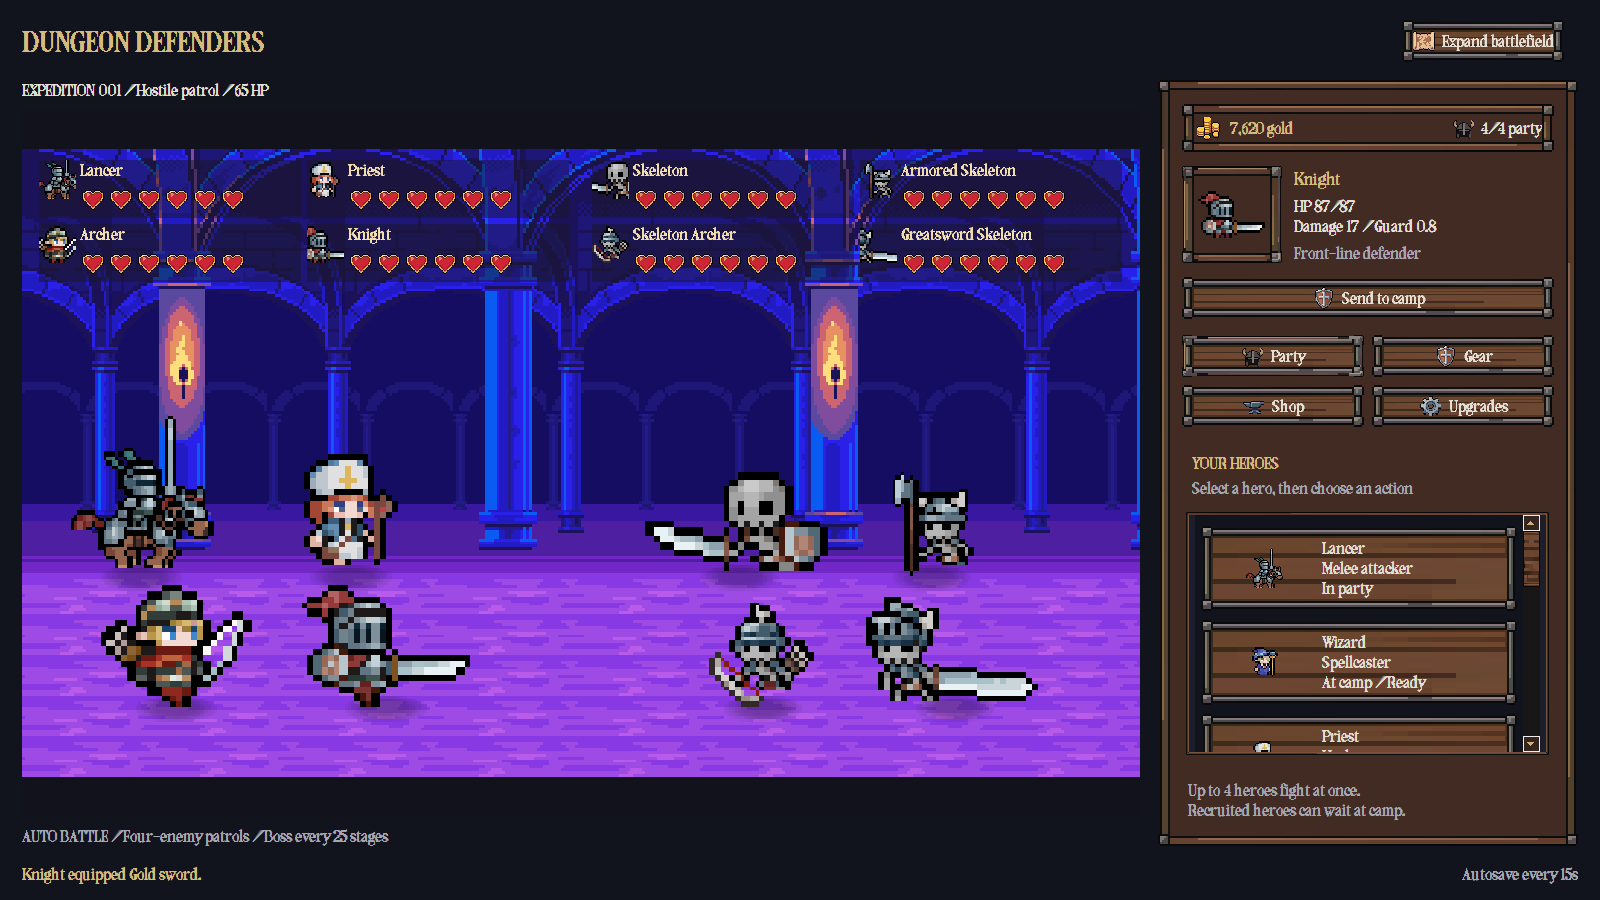
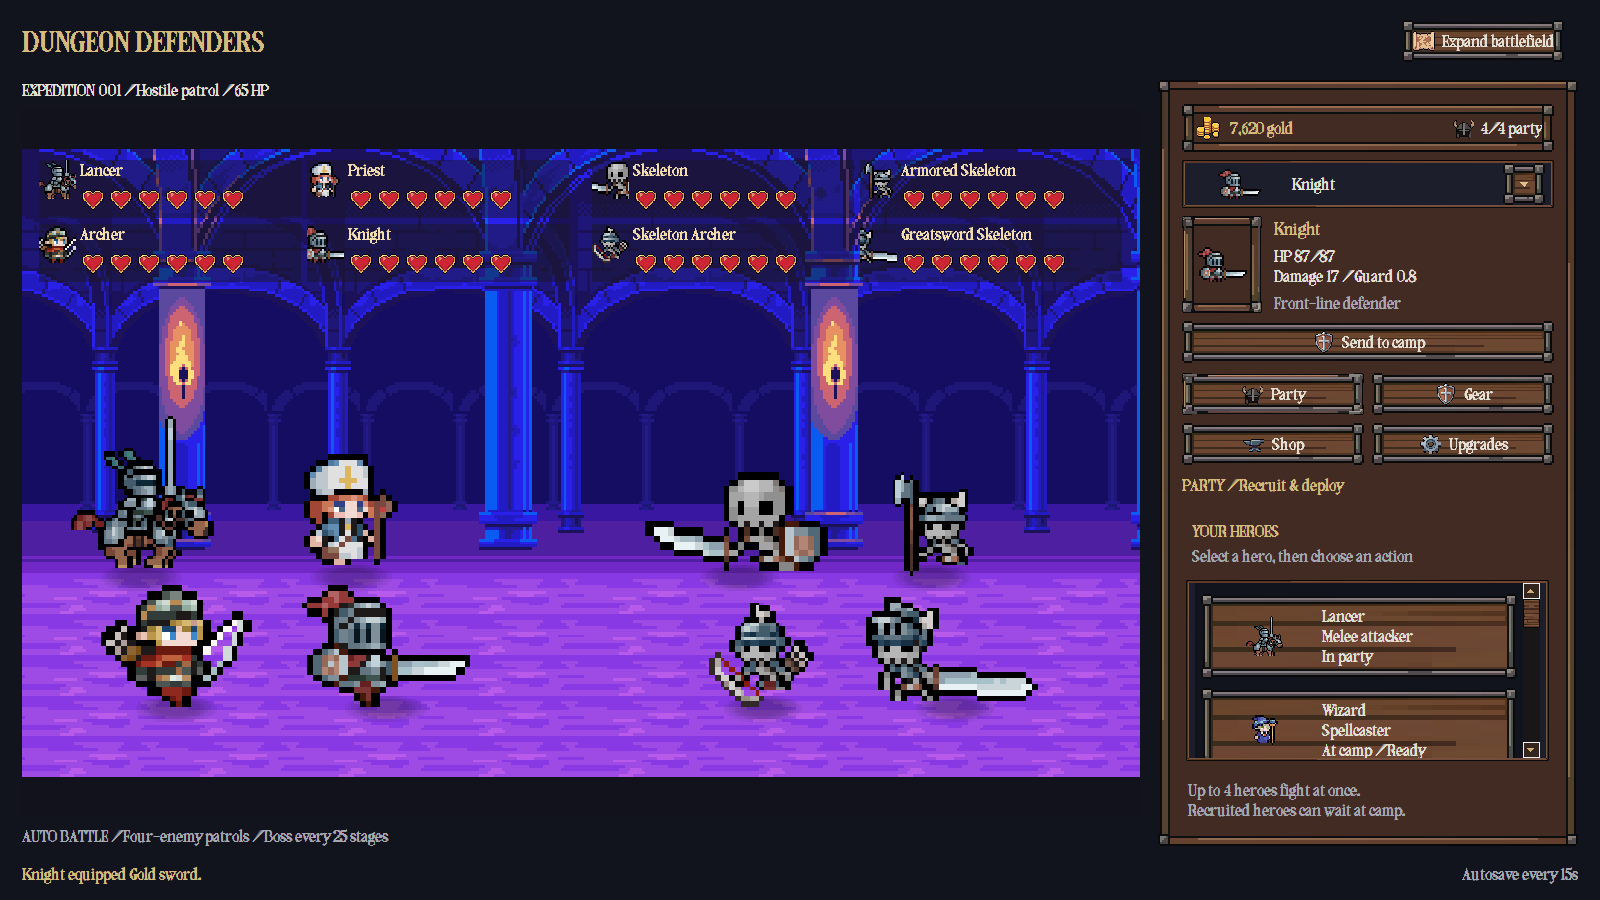
1.5.0 QoL
- updated UI for party, gears, shop, and upgrades
- updated boss

Changed region(s): [[0.7188, 0.1556, 0.9688, 0.8711]]

diff --git a/src/idle/IdleGame.java b/src/idle/IdleGame.java
@@ -39,6 +39,9 @@ public final class IdleGame {
     private final JList<Item> shop = new JList<>(Catalog.ITEMS.toArray(new Item[0]));
     private final BattlePanel battlefield;
     private Hero selected;
+    private final JComboBox<Role> heroPicker = new JComboBox<>(Role.values());
+    private final JLabel pageHeading = new JLabel();
+    private final JCheckBox compatibleOnly = new JCheckBox("Only gear this hero can use", true);
     private JFrame window;
     private String bagSignature = "";
     private int seconds;
@@ -193,9 +196,9 @@ public final class IdleGame {
 
         // keep the wallet, selected portrait, and management actions together
         // this avoids sending the player to a separate screen just to compare a price with their gold
-        JPanel sidebar = UiSkin.panel(new BorderLayout(0, 16)); sidebar.setPreferredSize(new Dimension(420, 660));
+        JPanel sidebar = UiSkin.panel(new BorderLayout(0, 10)); sidebar.setPreferredSize(new Dimension(420, 660));
         sidebar.setBorder(new EmptyBorder(24, 24, 24, 24));
-        JPanel character = panel(new BorderLayout(0, 14));
+        JPanel character = panel(new BorderLayout(0, 8));
         JPanel details = panel(null); details.setLayout(new BoxLayout(details, BoxLayout.Y_AXIS));
         heroTitle.setForeground(GOLD); heroTitle.setFont(font(19)); details.add(heroTitle);
         heroStats.setForeground(TEXT); details.add(heroStats); weaponRule.setForeground(MUTED); weaponRule.setFont(font(10)); details.add(weaponRule);
@@ -211,13 +214,27 @@ public final class IdleGame {
                 UiSkin.draw(g, "selection", 0, 0, getWidth(), getHeight(), false); g.dispose();
             }
         };
-        portrait.setPreferredSize(new Dimension(100, 90)); portrait.setOpaque(false);
+        portrait.setPreferredSize(new Dimension(80, 64)); portrait.setOpaque(false);
         JPanel identity = panel(new BorderLayout(12, 0)); identity.add(portrait, BorderLayout.WEST); identity.add(details, BorderLayout.CENTER);
         character.add(identity, BorderLayout.CENTER);
         JPanel wallet = UiSkin.panel(new BorderLayout(8, 0)); wallet.setBorder(new EmptyBorder(10, 12, 10, 12));
         resources.setIconTextGap(8); wallet.add(resources, BorderLayout.WEST);
         partyCount.setForeground(TEXT); partyCount.setFont(font(18)); partyCount.setIcon(UiSkin.icon(2, 20, 24)); wallet.add(partyCount, BorderLayout.EAST);
-        character.add(wallet, BorderLayout.NORTH);
+        JPanel selection = panel(new BorderLayout(0, 8)); selection.add(wallet, BorderLayout.NORTH);
+        heroPicker.setFont(font(18)); heroPicker.setSelectedItem(selected.role);
+        heroPicker.setRenderer(new DefaultListCellRenderer() {
+            // keep hero switching available above every tab with recognizable portraits and recruitment status
+            @Override public Component getListCellRendererComponent(JList<?> list, Object value, int index, boolean selectedRow, boolean focus) {
+                JLabel cell = (JLabel) super.getListCellRendererComponent(list, value, index, selectedRow, focus);
+                Role role = (Role) value;
+                if (role != null) { cell.setText(role.label + (state.heroes.get(role.ordinal()).level == 0 ? " / Not recruited" : "")); cell.setIcon(new ImageIcon(PixelArt.portrait(role))); }
+                return cell;
+            }
+        });
+        heroPicker.setToolTipText("Choose the hero to equip or upgrade without leaving this tab");
+        heroPicker.getAccessibleContext().setAccessibleName("Selected hero");
+        heroPicker.addActionListener(e -> { Role role = (Role) heroPicker.getSelectedItem(); if (role != null && selected.role != role) roster[role.ordinal()].doClick(); });
+        selection.add(heroPicker); character.add(selection, BorderLayout.NORTH);
         heroActions.add(deploy); character.add(heroActions, BorderLayout.SOUTH);
 
         tabs.setUI(new UiSkin.SkinTabs() {
@@ -238,7 +255,7 @@ public final class IdleGame {
         tabs.addTab("Party", rosterBlock);
         JPanel gear = panel(new GridLayout(4, 1, 0, 12)); gear.setBorder(new EmptyBorder(14, 10, 12, 10));
         for (Slot slot : Slot.values()) {
-            int i = slot.ordinal(); JPanel row = panel(new GridLayout(0, 1, 0, 5));
+            int i = slot.ordinal(); JPanel row = UiSkin.panel(new GridLayout(0, 1, 0, 6)); row.setBorder(new EmptyBorder(12, 12, 12, 12));
             equipped[i] = label("", GOLD, 11); row.add(equipped[i]); choices[i] = new JComboBox<>(); choices[i].setFont(font(11));
             choices[i].setRenderer(new DefaultListCellRenderer() {
                 // build a readable item row for the current inventory or shop context
@@ -255,11 +272,13 @@ public final class IdleGame {
             remove[i].addActionListener(e -> change(() -> state.unequip(selected, slot)));
             buttons.add(equip[i]); buttons.add(remove[i]); row.add(buttons); gear.add(row);
         }
-        gear.setPreferredSize(new Dimension(330, 440));
+        gear.setPreferredSize(new Dimension(330, 600));
         JScrollPane gearScroll = new JScrollPane(gear); gearScroll.getViewport().setBackground(PANEL); gearScroll.getVerticalScrollBar().setUnitIncrement(24);
         tabs.addTab("Gear", gearScroll);
         JPanel forge = panel(new BorderLayout(0, 10)); forge.setBorder(new EmptyBorder(12, 10, 12, 10));
-        forge.add(label("Buy gear here, then equip it in Gear", MUTED, 11), BorderLayout.NORTH);
+        compatibleOnly.setOpaque(false); compatibleOnly.setForeground(TEXT); compatibleOnly.setFont(font(18));
+        compatibleOnly.addActionListener(e -> filterShop());
+        forge.add(compatibleOnly, BorderLayout.NORTH);
         shop.setSelectionMode(ListSelectionModel.SINGLE_SELECTION);
         shop.setCellRenderer(new DefaultListCellRenderer() {
             // build a readable item row for the current inventory or shop context
@@ -277,14 +296,14 @@ public final class IdleGame {
         JPanel training = panel(new GridLayout(4, 1, 0, 10)); training.setBorder(new EmptyBorder(14, 8, 8, 8));
         for (GameState.Upgrade upgrade : GameState.Upgrade.values()) {
             int i = upgrade.ordinal();
-            JPanel row = panel(new BorderLayout(0, 6));
+            JPanel row = UiSkin.panel(new BorderLayout(0, 8)); row.setBorder(new EmptyBorder(12, 12, 12, 12));
             upgradeLabels[i] = label("", GOLD, 18); row.add(upgradeLabels[i], BorderLayout.CENTER);
             upgradeButtons[i] = button("Upgrade");
             upgradeButtons[i].setIcon(UiSkin.icon(3, upgrade == GameState.Upgrade.HEALTH ? 1 : upgrade == GameState.Upgrade.HEALING ? 15 : upgrade == GameState.Upgrade.GUARD ? 12 : 9, 22));
             upgradeButtons[i].addActionListener(e -> change(() -> state.upgrade(selected, upgrade)));
             row.add(upgradeButtons[i], BorderLayout.SOUTH); training.add(row);
         }
-        training.setPreferredSize(new Dimension(330, 450));
+        training.setPreferredSize(new Dimension(330, 560));
         JScrollPane trainingScroll = new JScrollPane(training); trainingScroll.getViewport().setBackground(PANEL); trainingScroll.getVerticalScrollBar().setUnitIncrement(24);
         tabs.addTab("Upgrades", trainingScroll);
 
@@ -293,10 +312,12 @@ public final class IdleGame {
         JPanel navigation = panel(new GridLayout(2, 2, 8, 8));
 
         int[] navigationIcons = {20, 12, 38, 35};
+        String[] navigationHelp = {"PARTY / Recruit heroes and manage active slots", "GEAR / Equip items you already own", "SHOP / Buy new equipment with gold", "UPGRADES / Permanently improve this hero's stats"};
         for (int i = 0; i < 4; i++) {
             final int tabIndex = i;
             JButton nav = button(tabs.getTitleAt(i)); navigationButtons[i] = nav;
             nav.setIcon(UiSkin.icon(i == 0 ? 2 : 3, navigationIcons[i], 24));
+            nav.setToolTipText(navigationHelp[i]);
             nav.addActionListener(e -> { tabs.setSelectedIndex(tabIndex); if (tabIndex == 2 && guidedItem == null && guidedRecruit == null) { shopGuide = true; guide("Shop"); refreshGuide(); } });
             nav.putClientProperty("selectedHero", i == 0); navigation.add(nav);
         }
@@ -304,7 +325,11 @@ public final class IdleGame {
             for (int i = 0; i < 4; i++) { navigationButtons[i].putClientProperty("selectedHero", tabs.getSelectedIndex() == i); navigationButtons[i].repaint(); }
             refreshGuide();
         });
-        JPanel management = panel(new BorderLayout(0, 8)); management.add(navigation, BorderLayout.NORTH); management.add(tabs, BorderLayout.CENTER);
+        JPanel management = panel(new BorderLayout(0, 8));
+        JPanel navigationArea = panel(new BorderLayout(0, 10)); navigationArea.add(navigation, BorderLayout.NORTH);
+        pageHeading.setForeground(GOLD); pageHeading.setFont(font(18)); navigationArea.add(pageHeading);
+        management.add(navigationArea, BorderLayout.NORTH); management.add(tabs, BorderLayout.CENTER);
+        tabs.addChangeListener(e -> updatePageHeading());
         sidebar.add(management, BorderLayout.CENTER);
         JLabel guide = label("", MUTED, 11);
         String[] hints = {"<html>Up to 4 heroes fight at once.<br>Recruited heroes can wait at camp.</html>", "<html>Only owned, compatible gear is listed.<br>Replaced items return to your inventory.</html>", "<html>Purchases go to shared inventory.<br>Buying an item does not equip it.</html>", "<html>Each upgrade is bought separately.<br>Gold is shared by all heroes.</html>"};
@@ -370,9 +395,33 @@ public final class IdleGame {
         buy.setText(item == null ? "Select an item" : (state.gold < item.price ? "Need " + (int) Math.ceil(item.price - state.gold) + " more gold" : "Buy for " + item.price + " gold"));
     }
 
+    // explain the current page in terms of what the player can do and who receives the change
+    private void updatePageHeading() {
+        String[] titles = {"PARTY / Recruit & deploy", "GEAR / Equip owned items", "SHOP / Buy new items", "STATS / Permanent upgrades"};
+        int page = Math.max(0, tabs.getSelectedIndex());
+        pageHeading.setText(titles[page]);
+    }
+
+    // narrow shop choices to useful gear while preserving a selected item whenever possible
+    // the checkbox lets players browse equipment for other classes without changing their party
+    private void filterShop() {
+        java.util.List<Item> items = new java.util.ArrayList<>();
+        for (Item item : Catalog.ITEMS) if (!compatibleOnly.isSelected() || selected.role.accepts(item)) items.add(item);
+        boolean same = shop.getModel().getSize() == items.size();
+        for (int i = 0; same && i < items.size(); i++) same = shop.getModel().getElementAt(i) == items.get(i);
+        if (same) return;
+        Item previous = shop.getSelectedValue();
+        shop.setListData(items.toArray(new Item[0]));
+        if (items.contains(previous)) shop.setSelectedValue(previous, true);
+        else if (!items.isEmpty()) shop.setSelectedIndex(0);
+    }
+
     // refresh hero details, party status, upgrade previews, and gear choices from the state
     // preserve a compatible inventory selection instead of rebuilding it unnecessarily
     private void refresh() {
+        heroPicker.setSelectedItem(selected.role);
+        updatePageHeading();
+        filterShop();
         resources.setText(new DecimalFormat("#,##0").format(state.gold) + " gold");
         partyCount.setText(state.activeCount() + "/4 party");
         stage.setText("EXPEDITION " + String.format("%03d", state.stage) + " / " + Encounters.title(state.stage) + " / " + (int) state.enemyHp + " HP");

diff --git a/src/idle/GameState.java b/src/idle/GameState.java
@@ -175,7 +175,7 @@ public final class GameState {
 
     // calculate the health budget for any stage, including the boss multiplier
     // rendering can use an old stage while its final enemies are still dying
-    public static double encounterMaxHp(int stage) { return (45 + stage * 20.0) * (Encounters.boss(stage) ? 4 : 1); }
+    public static double encounterMaxHp(int stage) { return (45 + stage * 20.0) * (stage == 25 ? 2 : Encounters.boss(stage) ? 4 : 1); }
 
     // get the current encounter's full health budget
     // retry and new-stage setup use this to reset enemies
@@ -184,7 +184,7 @@ public final class GameState {
     /** base damage per living enemy. boss heavy strikes are applied separately */
     // calculate one living enemy's base strike before guard and boss heavy attacks
     // later stages deal more damage
-    public double enemyStrikeDamage() { return (5 + stage * 1.7) * (boss() ? 1.5 : .25); }
+    public double enemyStrikeDamage() { return (5 + stage * 1.7) * (stage == 25 ? .65 : boss() ? 1.5 : .25); }
 
     // calculate gold for clearing this stage
     // boss victories receive a larger payout than ordinary patrols
@@ -316,7 +316,7 @@ public final class GameState {
         Hero target = heroes.stream().filter(Hero::alive).min(Comparator.comparingInt(h ->
             h.role == Role.KNIGHT || h.role == Role.KNIGHT_TEMPLAR ? 0 : h.role == Role.PRIEST ? 3 : h.role == Role.WIZARD || h.role == Role.ARCHER ? 2 : 1)).orElse(null);
         double strike = enemyStrikeDamage();
-        if (boss() && ticks % 5 == 0) { strike *= 1.7; message = Encounters.title(stage) + " unleashes a crushing blow!"; }
+        if (boss() && ticks % 5 == 0) { strike *= stage == 25 ? 1.3 : 1.7; message = Encounters.title(stage) + " unleashes a crushing blow!"; }
         if (target != null) {
             double applied = Math.min(target.hp, Math.max(.25, strike - target.guard() / (boss() ? 1 : 4)));
             target.hp -= applied;

diff --git a/src/idle/SaveStore.java b/src/idle/SaveStore.java
@@ -40,8 +40,11 @@ public final class SaveStore implements AutoCloseable {
             s.stage = integer(p, "stage", 1, GameState.MAX_STAGE);
             s.gold = number(p, "gold", 0, GameState.MAX_GOLD);
             double oldMax = "1".equals(version) ? (45 + s.stage * 20.0) * (s.stage % 10 == 0 ? 2.5 : 1) : s.enemyMaxHp();
+            // preserve the remaining health fraction when loading the former first-boss balance
+            boolean oldBossBalance = !"1".equals(version) && s.stage == 25 && !"2".equals(p.getProperty("combatBalance"));
+            if (oldBossBalance) oldMax = (45 + s.stage * 20.0) * 4;
             double savedHp = number(p, "enemyHp", .001, oldMax);
-            s.enemyHp = "1".equals(version) ? Math.max(.001, Math.min(s.enemyMaxHp(), savedHp / oldMax * s.enemyMaxHp())) : savedHp;
+            s.enemyHp = "1".equals(version) || oldBossBalance ? Math.max(.001, Math.min(s.enemyMaxHp(), savedHp / oldMax * s.enemyMaxHp())) : savedHp;
             s.kills = integer(p, "kills", 0, Integer.MAX_VALUE);
             s.ticks = integer(p, "ticks", 0, 999999); s.rest = integer(p, "rest", 0, 5);
             s.savedAt = Long.parseLong(p.getProperty("savedAt"));
@@ -102,6 +105,7 @@ public final class SaveStore implements AutoCloseable {
     public void save(GameState s) throws IOException {
         Properties p = new Properties();
         p.setProperty("campaignName", s.campaignName);
+        p.setProperty("combatBalance", "2");
         p.setProperty("version", "4"); p.setProperty("stage", "" + s.stage); p.setProperty("gold", "" + s.gold);
         p.setProperty("enemyHp", "" + s.enemyHp); p.setProperty("kills", "" + s.kills);
         p.setProperty("ticks", "" + s.ticks); p.setProperty("rest", "" + s.rest);

diff --git a/tests/idle/GameStateTest.java b/tests/idle/GameStateTest.java
@@ -88,6 +88,18 @@ public final class GameStateTest {
         for (int i = 0; i < 250; i++) wall.tick();
         check(wall.stage == 995 && wall.kills == 0 && wall.gold == 120 && wall.inventory.isEmpty(), "Underpowered boss party retreats once without earning victory rewards");
         GameState scaling = new GameState(); scaling.stage = 10;
+        // the introductory boss should reward modest preparation without requiring late-tier equipment
+        GameState introduction = new GameState(); introduction.stage = 25; introduction.enemyHp = introduction.enemyMaxHp();
+        check(introduction.enemyMaxHp() == 1090 && introduction.enemyStrikeDamage() < 31, "Introductory boss has gentler health and damage");
+        for (Hero h : introduction.heroes) if (h.active) {
+            h.upgrades.put(GameState.Upgrade.ATTACK, 2); h.upgrades.put(GameState.Upgrade.HEALTH, 2);
+            h.upgrades.put(GameState.Upgrade.GUARD, 2);
+            if (h.role == Role.PRIEST) h.upgrades.put(GameState.Upgrade.HEALING, 2);
+            for (Item item : Catalog.ITEMS) if (item.tier == 1 && h.role.accepts(item)) h.gear.put(item.slot, item);
+            h.hp = h.maxHp();
+        }
+        for (int i = 0; i < 100 && introduction.stage == 25; i++) introduction.tick();
+        check(introduction.stage == 26, "Iron gear and rank-two upgrades can defeat the first boss");
         double earlyHp = scaling.enemyMaxHp(), earlyDamage = scaling.enemyStrikeDamage(); scaling.stage = 20;
         check(scaling.enemyMaxHp() > earlyHp && scaling.enemyStrikeDamage() > earlyDamage, "Normal HP and damage grow with stage");
         scaling.stage = 25; earlyHp = scaling.enemyMaxHp(); earlyDamage = scaling.enemyStrikeDamage(); scaling.stage = 50;

diff --git a/README.md b/README.md
@@ -157,6 +157,8 @@ The gear-shaped options button on the **left of each save card** offers **Rename
 
 Use the management panel beside the battlefield:
 
+The portrait dropdown above the tabs switches the selected hero from any page. **Party** manages who fights, **Gear** equips owned items, **Shop** buys items, and **Upgrades** permanently increases hero stats. Each page has a distinct heading, and equipment slots and stat upgrades use separate framed cards. The Shop defaults to equipment the selected hero can use. Uncheck **Only gear this hero can use** to browse all classes.
+
 | Tab | What to do |
 | --- | --- |
 | **Party** | Select a hero, recruit another class, or swap members between camp and your active party |
@@ -189,6 +191,8 @@ Equipment uses **Iron (tier 1), Gold (tier 2), and Crystal (tier 3)** artwork. H
 ### Progression and recovery
 
 Enemy health and damage increase with the stage. Normal patrols contain four enemies of the same species, while every 25th stage introduces a boss. Patrol and boss victories award gold only. All equipment must be purchased from the Shop.
+
+The first boss at stage 25 has a gentler introductory balance: 1,090 HP, reduced attack damage, and a smaller heavy-hit bonus. Iron equipment and early stat upgrades are enough for a prepared starting party to win. Later bosses retain their existing scaling. Existing first-boss saves preserve their remaining HP percentage when loaded with the revised balance.
 
 A downed hero is automatically sent to camp and frees a party slot. Camp recovery takes **30 seconds**, gradually restores HP, and continues while the game is closed. Injured heroes you manually send to camp also recover there. Recovering heroes cannot be deployed until their countdown finishes.
 

diff --git a/CHANGELOG.md b/CHANGELOG.md
@@ -35,6 +35,9 @@ Equipment, audio, camp recovery, and guidance update, recorded on October 19, 20
 
 ### Interface and checks
 
+- Added a portrait hero selector available on every management tab, distinct page headings, framed equipment/stat cards, and a compatible-equipment Shop filter
+- Reduced stage 25 boss HP from 2,180 to 1,090, base damage from 71.25 to 30.875, and the heavy-hit multiplier from 1.7 to 1.3
+- Preserved existing first-boss save health percentages and verified a starting party with Iron gear and rank-two upgrades can clear the encounter
 - Changed recruitment, shopping, and equipment guides into action-driven sequences with next-control highlights and dismissal at every step
 - Added regrouping guidance for ready replacements, recovery countdowns, full-party swaps, and manual redeployment, including empty-party saves
 - Guided players back to hidden management controls and added regression checks for navigation, recruitment, deployment, recovery, and dismissal
